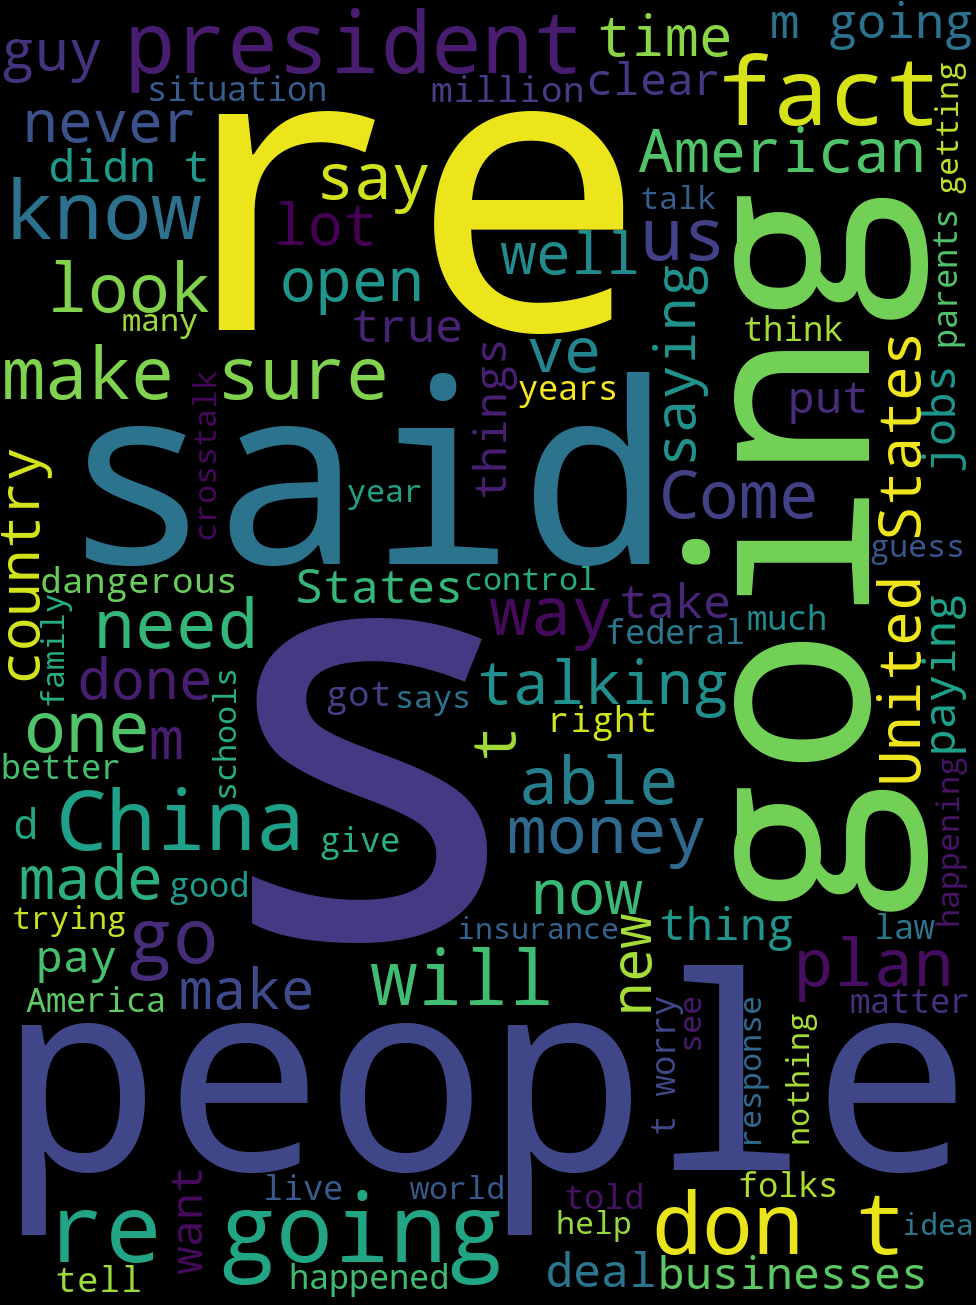
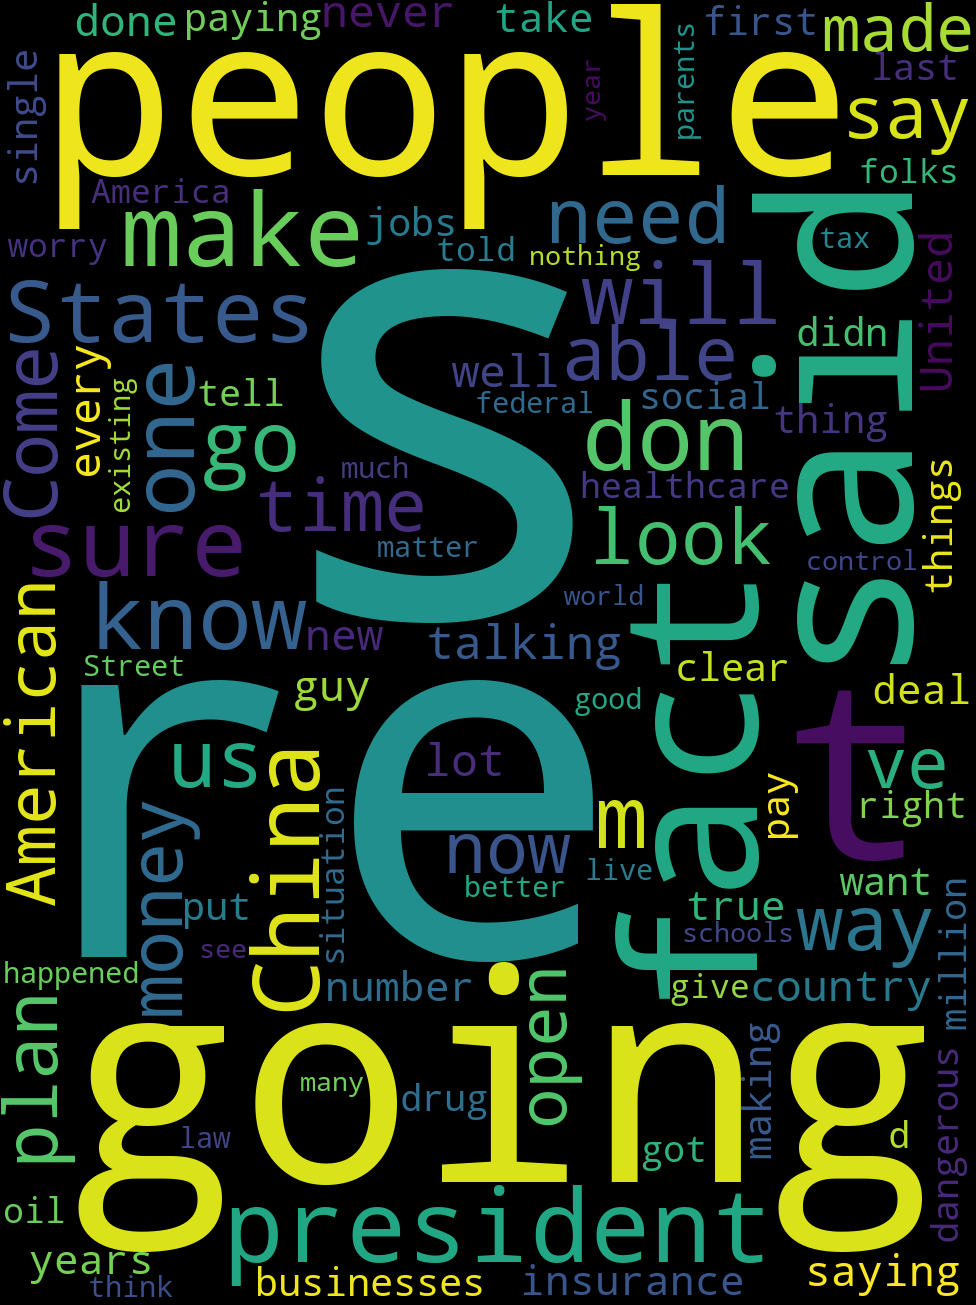
cleaned

diff --git a/PresDebate1.py b/PresDebate1.py
@@ -151,16 +151,8 @@ def main():
     sentencenum = debate1.groupby(['speaker']).sum()[['sentences']].reset_index()
     sentencenum2 = debate2.groupby(['speaker']).sum()[['sentences']].reset_index()
 
-    print(sentencenum)
-    print('#######################')
-    print(sentencenum2)
-    print('#######################')
-
     totalsents = sentencenum.sum().sentences
     totalsents2 = sentencenum2.sum().sentences
-
-    print(totalsents)
-    print(totalsents2)
 
     bidencount = sentencenum.at[2, 'sentences'] + sentencenum2.at[1, 'sentences']
     trumpcount = sentencenum.at[1, 'sentences'] + sentencenum2.at[0, 'sentences']
@@ -172,10 +164,6 @@ def main():
     trumppercentage2 = int(sentencenum2.at[0, 'sentences'] / totalsents * 100)
     bidenpercentage2 = int(sentencenum2.at[1, 'sentences'] / totalsents * 100)
     mediatorpercentage2 = int(sentencenum.at[2, 'sentences'] / totalsents * 100)
-
-    print(trumppercentage2)
-    print(bidenpercentage2)
-    print(mediatorpercentage2)
 
     #make graphs
     fig = go.Figure(
@@ -471,10 +459,11 @@ def DoWCounts(dfdt, dfdt2, dfjb, dfjb2):
 def WCloud(content, imgname):
     if imgname in ['BidenWC1.png', 'BidenWC2.png']:
         tmask = np.array(Image.open("img/Biden.png"))
-    if imgname in ['TrumpWC1.png', 'TrumpWC2.png']:
+    elif imgname in ['TrumpWC1.png', 'TrumpWC2.png']:
         tmask = np.array(Image.open("img/Trump.png"))
     wordcloud = WordCloud(max_words=100, width=1280, height=720, normalize_plurals=False, mask=tmask,
                           contour_color='yellow',
+                          collocations=False,
                           contour_width=20,
                           background_color="black").generate(content)
     plt.imshow(wordcloud, interpolation='bilinear')
